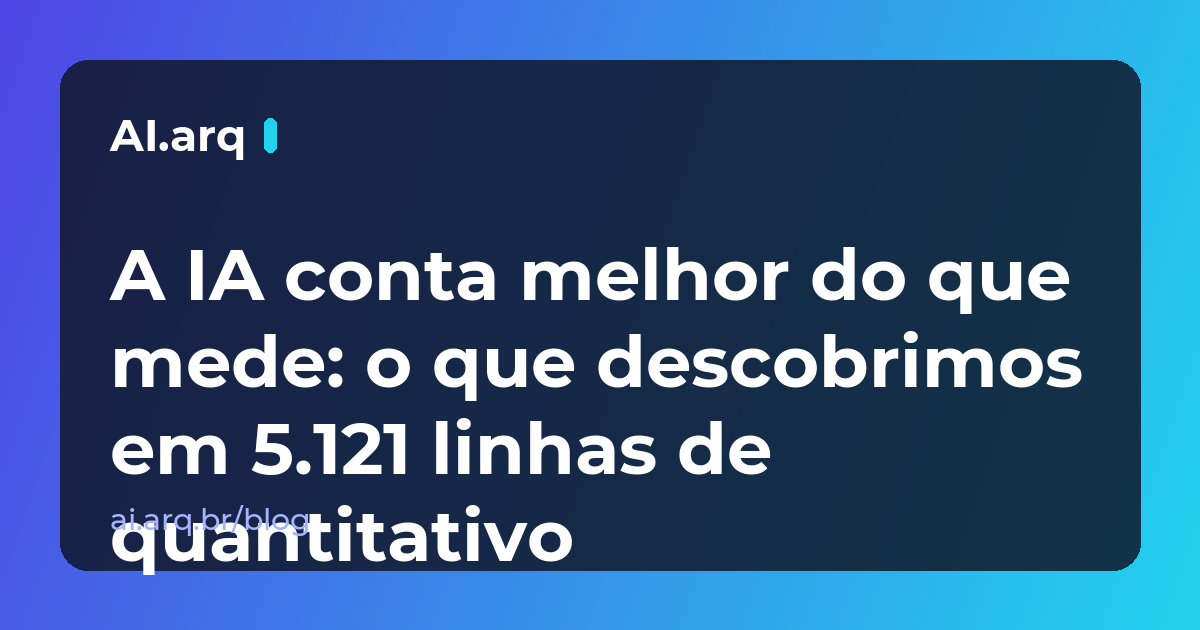
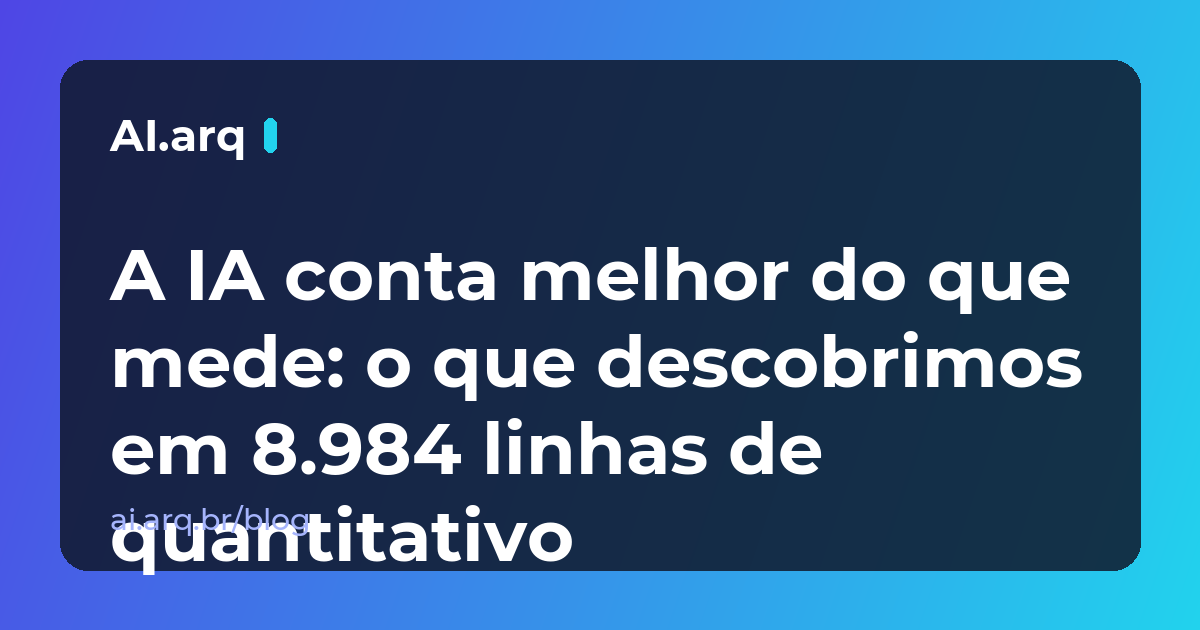
blog: o post de 18/10 ia ao ar com número de 03/09 — e com trial dentro da conta
O post "A IA conta melhor do que mede" publica em 18/10 e cita medição de
03/09. Base velha de 15 dias, num sistema em que a base quase dobrou nesse
intervalo. Remedido em 18/09 por três derivações independentes e três
contestações adversariais. As três acharam coisa.

O QUE ESTAVA ERRADO NO POST

1. Projeto de TRIAL contava como planta de cliente. Nove projetos chamados
   "teste", de contas que nunca nomearam um projeto de outro jeito — e dois
   deles são o mesmo arquivo subido com 35 segundos de diferença, que o filtro
   de filhote não pega porque nenhum tem parent_job_id. São 4,4% das linhas e
   12,3% dos SELOS: DWG pequeno e limpo mede bem e empurra a taxa pra cima.
   A ficha prometia "plantas de clientes em projetos concluídos".

2. A taxa agregada misturava duas populações que não se parecem. Metade das
   linhas de hoje vem de projeto só-PDF, e de PDF não sai medida por regra
   nossa. Publicar a média responde "quantos clientes mandam PDF", não "o que a
   IA mede num desenho". O recorte agora é explícito: projetos com DWG/DXF.

3. O múltiplo "dezesseis vezes" morreu e nenhum guarda pegou.

O QUE ISSO REVELOU, E QUE VALE MAIS QUE O POST

No recorte de CAD o motor NÃO se mexeu entre 03/09 e hoje: contagem 42,4% ->
42,8%, comprimento 22,6% -> 22,3%, área 3,2% -> 2,7%. A queda da base inteira
(32,4% -> 24,9%) é composição, não desempenho. Eu ia publicar uma regressão que
os dados não sustentam.

E EU ERREI FEIO NO MEIO DO CAMINHO
[…]

Changed region(s): [[0.185, 0.6635, 0.7092, 0.754]]

diff --git a/blog/posts/ia-conta-melhor-do-que-mede-planta.html b/blog/posts/ia-conta-melhor-do-que-mede-planta.html
@@ -7,8 +7,8 @@
 <link rel="preconnect" href="https://fonts.googleapis.com">
 <link rel="preconnect" href="https://fonts.gstatic.com" crossorigin>
 
-<title>A IA conta melhor do que mede: o que descobrimos em 5.121 linhas de quantitativo</title>
-<meta name="description" content="Levantamos 5.121 linhas geradas por IA a partir de plantas reais e separamos por unidade. Contagem sai certificada em 32,4% dos casos; área, em 2%. Por que essa diferença existe e o que o seu desenho precisa ter.">
+<title>A IA conta melhor do que mede: o que descobrimos em 8.984 linhas de quantitativo</title>
+<meta name="description" content="Levantamos 8.984 linhas geradas por IA a partir de plantas reais e separamos por unidade. Em projeto com CAD, contagem sai certificada em 41,7% dos casos; área, em 2,1%. Por que essa diferença existe e o que o seu desenho precisa ter.">
 <meta name="keywords" content="ia le planta, ia mede planta, quantitativo por ia confiavel, ia quantitativo obra, extrair quantitativo do cad, ia arquitetura limites, quantitativo automatico precisao">
 <meta name="author" content="AI.arq">
 
@@ -19,8 +19,8 @@
 <!-- Open Graph -->
 <meta property="og:type" content="article">
 <meta property="og:url" content="https://ai.arq.br/blog/posts/ia-conta-melhor-do-que-mede-planta.html">
-<meta property="og:title" content="A IA conta melhor do que mede: o que descobrimos em 5.121 linhas de quantitativo">
-<meta property="og:description" content="Levantamos 5.121 linhas geradas por IA a partir de plantas reais e separamos por unidade. Contagem sai certificada em 32,4% dos casos; área, em 2%. Por que essa diferença existe e o que o seu desenho precisa ter.">
+<meta property="og:title" content="A IA conta melhor do que mede: o que descobrimos em 8.984 linhas de quantitativo">
+<meta property="og:description" content="Levantamos 8.984 linhas geradas por IA a partir de plantas reais e separamos por unidade. Em projeto com CAD, contagem sai certificada em 41,7% dos casos; área, em 2,1%. Por que essa diferença existe e o que o seu desenho precisa ter.">
 <meta property="og:image" content="https://ai.arq.br/blog/og/ia-conta-melhor-do-que-mede-planta.png">
 <meta property="og:image:width" content="1200">
 <meta property="og:image:height" content="630">
@@ -32,8 +32,8 @@
 
 <!-- Twitter -->
 <meta name="twitter:card" content="summary_large_image">
-<meta name="twitter:title" content="A IA conta melhor do que mede: o que descobrimos em 5.121 linhas de quantitativo">
-<meta name="twitter:description" content="Levantamos 5.121 linhas geradas por IA a partir de plantas reais e separamos por unidade. Contagem sai certificada em 32,4% dos casos; área, em 2%. Por que essa diferença existe e o que o seu desenho precisa ter.">
+<meta name="twitter:title" content="A IA conta melhor do que mede: o que descobrimos em 8.984 linhas de quantitativo">
+<meta name="twitter:description" content="Levantamos 8.984 linhas geradas por IA a partir de plantas reais e separamos por unidade. Em projeto com CAD, contagem sai certificada em 41,7% dos casos; área, em 2,1%. Por que essa diferença existe e o que o seu desenho precisa ter.">
 <meta name="twitter:image" content="https://ai.arq.br/blog/og/ia-conta-melhor-do-que-mede-planta.png">
 
 <!-- Data agendada (lida por JS pra esconder antes da hora) -->
@@ -69,8 +69,8 @@
 {
   "@context": "https://schema.org",
   "@type": "Article",
-  "headline": "A IA conta melhor do que mede: o que descobrimos em 5.121 linhas de quantitativo",
-  "description": "Levantamos 5.121 linhas geradas por IA a partir de plantas reais e separamos por unidade. Contagem sai certificada em 32,4% dos casos; área, em 2%. Por que essa diferença existe e o que o seu desenho precisa ter.",
+  "headline": "A IA conta melhor do que mede: o que descobrimos em 8.984 linhas de quantitativo",
+  "description": "Levantamos 8.984 linhas geradas por IA a partir de plantas reais e separamos por unidade. Em projeto com CAD, contagem sai certificada em 41,7% dos casos; área, em 2,1%. Por que essa diferença existe e o que o seu desenho precisa ter.",
   "datePublished": "2026-10-18T10:00:00-03:00",
   "dateModified": "2026-10-18T10:00:00-03:00",
   "author": {
@@ -115,7 +115,7 @@
     {
       "@type": "ListItem",
       "position": 3,
-      "name": "A IA conta melhor do que mede: o que descobrimos em 5.121 linhas de quantitativo",
+      "name": "A IA conta melhor do que mede: o que descobrimos em 8.984 linhas de quantitativo",
       "item": "https://ai.arq.br/blog/posts/ia-conta-melhor-do-que-mede-planta.html"
     }
   ]
@@ -172,22 +172,22 @@
   <span class="inline-block bg-indigo-100 text-indigo-700 text-xs font-semibold uppercase tracking-wide px-3 py-1 rounded-full mb-4">Quantitativos</span>
 
   <!-- Título -->
-  <h1 class="text-3xl md:text-4xl font-bold text-gray-900 leading-tight mb-4">A IA conta melhor do que mede: o que descobrimos em 5.121 linhas de quantitativo</h1>
+  <h1 class="text-3xl md:text-4xl font-bold text-gray-900 leading-tight mb-4">A IA conta melhor do que mede: o que descobrimos em 8.984 linhas de quantitativo</h1>
 
   <!-- Meta -->
   <div class="flex items-center gap-4 text-sm text-gray-500 mb-10 pb-6 border-b">
     <span>📅 18/10/2026</span>
     <span>·</span>
-    <span>⏱ 3 min de leitura</span>
+    <span>⏱ 4 min de leitura</span>
   </div>
 
   
   <!-- Intro destacada -->
-  <p class="text-xl text-gray-700 leading-relaxed mb-8 italic">A pergunta que mais chega aqui é alguma versão de “dá pra confiar?”. Resposta honesta: depende do que você está pedindo pra IA fazer. Contar e medir são tarefas diferentes, e a distância entre as duas é maior do que a gente imaginava antes de olhar os próprios dados. Levantamos 5.121 linhas de quantitativo geradas a partir de plantas reais de clientes e separamos por unidade. O resultado está abaixo, incluindo a parte que não nos favorece.</p>
+  <p class="text-xl text-gray-700 leading-relaxed mb-8 italic">A pergunta que mais chega aqui é alguma versão de “dá pra confiar?”. Resposta honesta: depende do que você está pedindo pra IA fazer. Contar e medir são tarefas diferentes, e a distância entre as duas é maior do que a gente imaginava antes de olhar os próprios dados. Levantamos 8.984 linhas de quantitativo geradas a partir de plantas reais de clientes e separamos por unidade. O resultado está abaixo, incluindo a parte que não nos favorece.</p>
 
   <!-- Corpo -->
   <div class="prose-aiarq">
-    <h2>O número: 32,4% contra 2,0%</h2><p>Separando as linhas por família de unidade e olhando quantas saem seladas como MEDIDO do CAD (a nossa marca de que o número veio da geometria do desenho, não de estimativa):</p><ul><li>Contagem (un, peça) — 32,4% seladas como medidas: 901 de 2.779 linhas</li><li>Comprimento (m, ml) — 16,8%: 139 de 828 linhas</li><li>Área (m², m³) — 2,0%: 31 de 1.514 linhas</li></ul><p>A IA sela dezesseis vezes mais contagem do que área. Não é uma diferença de ajuste fino: é uma diferença de natureza da tarefa.</p><p>Um aviso de leitura, porque a confusão é fácil e vale 20 pontos percentuais: “linha com número” e “linha certificada como medida” são coisas diferentes. Área tem número em 47,9% das linhas, mas selo de medida em 2,0%. O resto vem como estimativa marcada pra revisar.</p><h2>Por que contar é mais fácil do que medir</h2><p>Contar é reconhecer um objeto repetido. Uma luminária, uma porta, um vaso sanitário são blocos inseridos no CAD: existem como entidade, têm nome, e contá-los é somar ocorrências. O desenho já traz a resposta.</p><p>Medir área é outra coisa. Uma sala não é um objeto no arquivo — é o vazio cercado por linhas que representam paredes. Pra virar metro quadrado, alguém precisa fechar aquele contorno, saber a escala e confirmar a unidade do desenho. Quando o projeto traz quadro de áreas, cota ou hachura identificada, o número aparece. Quando não traz, ele não existe em lugar nenhum do arquivo — e nenhuma IA tira do nada o que o desenho não tem.</p><p>Comprimento fica no meio: a linha existe, mas frequentemente representa as duas faces de uma parede, ou repete o mesmo trecho em pranchas diferentes. Por isso 16,8%, e não 80%.</p><h2>A linha em branco não é um erro — é a pergunta honesta</h2><p>Nas nossas planilhas, 54,8% das linhas de medida saem em branco: 1.283 de 2.342. É bastante, e a gente publica esse número de propósito.</p><p>Uma linha em branco quer dizer “o desenho não me deu isso”. A alternativa seria preencher com uma estimativa plausível — e é aí que quantitativo automático vira armadilha, porque um número inventado com cara de medido não é conferido por ninguém. Prefere-se o branco, que é uma pergunta, ao número bonito, que é uma afirmação falsa.</p><p>O custo disso é real: você preenche na mão o que ficou em branco. O ganho é que o que está preenchido e selado, você pode usar sem reconferir.</p><h2>O que o seu desenho precisa ter pra a IA medir</h2><p>Pela nossa medição, quatro coisas mudam o resultado mais do que qualquer ajuste de IA:</p><ol><li>Formato vetorial. DXF e DWG carregam geometria; PDF carrega imagem de geometria. Em PDF, quase tudo vira estimativa.</li><li>Unidade declarada no arquivo. Desenho sem unidade definida gera erro de escala — e erro de escala em área é erro ao quadrado.</li><li>Quadro de áreas ou cota. É a fonte que a IA lê pra confirmar o que mediu. Sem ele, sobra o contorno, que nem sempre fecha.</li><li>Pé-direito. Sem a altura, nada que dependa dela fecha: pintura de parede, volume, revestimento vertical. Ele quase nunca está no arquivo, e é informado em um campo.</li></ol><p>Nenhum desses itens é sobre a IA. Todos são sobre o desenho.</p><h2>O que fazer com a planilha que volta com branco</h2><p>Três movimentos, do mais barato pro mais caro:</p><ul><li>Informar a área total ou o pé-direito. Um número seu completa as linhas que dependem dele, e elas saem marcadas como informadas por você — não como medidas.</li><li>Reenviar em DXF, se você mandou PDF. É o que mais muda o resultado.</li><li>Preencher na mão o que sobrou. É trabalho, mas sobre uma base que já contou o que dava pra contar.</li></ul><p>O que a IA resolve bem hoje é o levantamento repetitivo: contar peça, listar esquadria, organizar por disciplina, cruzar com referência SINAPI. O julgamento técnico — o que entra, o que vira composição, o que o desenho não diz — continua sendo do profissional. Não por modéstia: porque é o que os dados mostram.</p>
+    <h2>O número: 41,7% contra 2,1%</h2><p>Antes do número, um corte que muda tudo. Das 8.984 linhas, 4.535 vieram de projeto enviado só em PDF — e de PDF a gente não sela medida, por regra nossa. Somar essas linhas ao resto responderia “quantos clientes mandam PDF”, não “o que a IA consegue medir num desenho”. Então a conta abaixo é sobre as 4.449 linhas que vieram de projeto com DWG ou DXF.</p><p>Separando essas linhas por família de unidade e olhando quantas saem seladas como MEDIDO do CAD (a nossa marca de que o número veio da geometria do desenho, não de estimativa):</p><ul><li>Contagem (un) — 41,7% seladas como medidas: 1.055 de 2.533 linhas</li><li>Comprimento (m, ml) — 20,6%: 166 de 804 linhas</li><li>Área (m², m³) — 2,1%: 23 de 1.112 linhas</li></ul><p>A IA sela vinte vezes mais contagem do que área. Não é uma diferença de ajuste fino: é uma diferença de natureza da tarefa.</p><p>Por projeto o contraste fica mais duro do que a média deixa ver. Entre os projetos que têm linha de área, 68 de 79 não têm nenhuma medida — 86,1%, ou seja, na grande maioria dos projetos a área sai inteiramente como estimativa. Em contagem, os que não medem nada são 24 de 88, 27,3%.</p><p>Um aviso de leitura, porque a confusão é fácil e vale quase quarenta pontos percentuais: “linha com número” e “linha certificada como medida” são coisas diferentes. Área traz número em 448 de 1.112 linhas, 40,3% — e selo de medida em 2,1%. O resto vem como estimativa marcada pra revisar.</p><h2>Por que contar é mais fácil do que medir</h2><p>Contar é reconhecer um objeto repetido. Uma luminária, uma porta, um vaso sanitário são blocos inseridos no CAD: existem como entidade, têm nome, e contá-los é somar ocorrências. O desenho já traz a resposta.</p><p>Medir área é outra coisa. Uma sala não é um objeto no arquivo — é o vazio cercado por linhas que representam paredes. Pra virar metro quadrado, alguém precisa fechar aquele contorno, saber a escala e confirmar a unidade do desenho. Quando o projeto traz quadro de áreas, cota ou hachura identificada, o número aparece. Quando não traz, ele não existe em lugar nenhum do arquivo — e nenhuma IA tira do nada o que o desenho não tem.</p><p>Comprimento fica no meio: a linha existe, mas frequentemente representa as duas faces de uma parede, ou repete o mesmo trecho em pranchas diferentes. Por isso 20,6%, e não 80%.</p><h2>A linha em branco não é um erro — é a pergunta honesta</h2><p>Nas planilhas de projeto com CAD, 60,2% das linhas de medida saem em branco: 1.154 de 1.916. É bastante, e a gente publica esse número de propósito.</p><p>Uma linha em branco quer dizer “o desenho não me deu isso”. Em 109 de 1.154 — 9,4% do branco — ela quer dizer outra coisa, e vale contar: ali existia um número, e nós o tiramos. Eram quantidades que tinham atravessado uma troca de unidade (o comprimento de um cabo virando contagem de peças, por exemplo) e que, por isso, já não significavam o que diziam. Entre o branco e o número que não se sustenta, fica o branco.</p><p>A alternativa seria preencher com uma estimativa plausível — e é aí que quantitativo automático vira armadilha, porque um número inventado com cara de medido não é conferido por ninguém. Prefere-se o branco, que é uma pergunta, ao número bonito, que é uma afirmação falsa.</p><p>O custo disso é real: você preenche na mão o que ficou em branco. O ganho é que o que está preenchido e selado, você pode usar sem reconferir.</p><h2>O que o seu desenho precisa ter pra a IA medir</h2><p>Pela nossa medição, quatro coisas mudam o resultado mais do que qualquer ajuste de IA:</p><ol><li>Formato vetorial. DXF e DWG carregam geometria; PDF carrega imagem de geometria. É a diferença mais brutal da tabela toda: das 4.535 linhas que vieram de projeto só em PDF, duas saíram seladas como medidas — e as duas são de maio de 2026, anteriores à regra que temos hoje. Depois dela, nenhuma.</li><li>Unidade declarada no arquivo. Desenho sem unidade definida gera erro de escala — e erro de escala em área é erro ao quadrado.</li><li>Quadro de áreas ou cota. É a fonte que a IA lê pra confirmar o que mediu. Sem ele, sobra o contorno, que nem sempre fecha.</li><li>Pé-direito. Sem a altura, nada que dependa dela fecha: pintura de parede, volume, revestimento vertical. Ele quase nunca está no arquivo, e é informado em um campo.</li></ol><p>Nenhum desses itens é sobre a IA. Todos são sobre o desenho.</p><h2>O que fazer com a planilha que volta com branco</h2><p>Três movimentos, do mais barato pro mais caro:</p><ul><li>Informar a área total ou o pé-direito. Um número seu completa as linhas que dependem dele, e elas saem marcadas como informadas por você — não como medidas.</li><li>Reenviar em DXF, se você mandou PDF. É o que mais muda o resultado.</li><li>Preencher na mão o que sobrou. É trabalho, mas sobre uma base que já contou o que dava pra contar.</li></ul><p>O que a IA resolve bem hoje é o levantamento repetitivo: contar peça, listar esquadria, organizar por disciplina, cruzar com referência SINAPI. O julgamento técnico — o que entra, o que vira composição, o que o desenho não diz — continua sendo do profissional. Não por modéstia: porque é o que os dados mostram.</p>
   </div>
 
   <!-- Compartilhar (28/08/2026) -->
@@ -240,7 +240,7 @@
         <svg class="w-4 h-4" fill="none" stroke="currentColor" viewBox="0 0 24 24"><path stroke-linecap="round" stroke-linejoin="round" stroke-width="2" d="M12 6.253v13m0-13C10.832 5.477 9.246 5 7.5 5S4.168 5.477 3 6.253v13C4.168 18.477 5.754 18 7.5 18s3.332.477 4.5 1.253m0-13C13.168 5.477 14.754 5 16.5 5c1.747 0 3.332.477 4.5 1.253v13C19.832 18.477 18.247 18 16.5 18c-1.746 0-3.332.477-4.5 1.253"/></svg>
         Fontes &amp; Referências
       </h3>
-      <div class="mb-4"><div class="text-xs font-semibold uppercase tracking-wide text-gray-500 mb-2">Normas ABNT</div><ul class="space-y-1.5 text-sm text-gray-700"><li><strong>ABNT NBR 12721:2006 — Avaliação de custos de construção para incorporação imobiliária</strong> &mdash; <span class="text-gray-600">Define como as áreas de um projeto são apuradas e apresentadas em quadro — a fonte que um leitor automático usa pra confirmar área.</span></li></ul></div><div><div class="text-xs font-semibold uppercase tracking-wide text-gray-500 mb-2">Web</div><ul class="space-y-1.5 text-sm text-gray-700"><li><a href="https://www.caixa.gov.br/poder-publico/modernizacao-gestao/sinapi/Paginas/default.aspx" target="_blank" rel="noopener nofollow" class="text-indigo-600 hover:text-indigo-800">SINAPI — Sistema Nacional de Pesquisa de Custos e Índices (Caixa Econômica Federal)</a> &mdash; <span class="text-gray-600">Referência das unidades de medida por serviço, usada pra checar se a unidade do item bate com a composição correspondente.</span></li></ul></div><div class="mt-4"><div class="text-xs font-semibold uppercase tracking-wide text-gray-500 mb-2">Dados do AI.arq</div><ul class="space-y-1.5 text-sm text-gray-700"><li><strong>Medição própria — AI.arq, base de produção (03/09/2026)</strong> &mdash; <span class="text-gray-600">5.121 linhas de quantitativo geradas a partir de plantas de clientes em projetos concluídos, agrupadas por família de unidade. Contagem (un/pç): 901 de 2.779 seladas como medidas (32,4%). Comprimento (m/ml): 139 de 828 (16,8%). Área (m²/m³): 31 de 1.514 (2,0%). Linhas de medida em branco: 1.283 de 2.342 (54,8%). Projetos de avaliação e contas internas ficam fora da contagem.</span></li></ul></div>
+      <div class="mb-4"><div class="text-xs font-semibold uppercase tracking-wide text-gray-500 mb-2">Normas ABNT</div><ul class="space-y-1.5 text-sm text-gray-700"><li><strong>ABNT NBR 12721:2006 — Avaliação de custos de construção para incorporação imobiliária</strong> &mdash; <span class="text-gray-600">Define como as áreas de um projeto são apuradas e apresentadas em quadro — a fonte que um leitor automático usa pra confirmar área.</span></li></ul></div><div><div class="text-xs font-semibold uppercase tracking-wide text-gray-500 mb-2">Web</div><ul class="space-y-1.5 text-sm text-gray-700"><li><a href="https://www.caixa.gov.br/poder-publico/modernizacao-gestao/sinapi/Paginas/default.aspx" target="_blank" rel="noopener nofollow" class="text-indigo-600 hover:text-indigo-800">SINAPI — Sistema Nacional de Pesquisa de Custos e Índices (Caixa Econômica Federal)</a> &mdash; <span class="text-gray-600">Referência das unidades de medida por serviço, usada pra checar se a unidade do item bate com a composição correspondente.</span></li></ul></div><div class="mt-4"><div class="text-xs font-semibold uppercase tracking-wide text-gray-500 mb-2">Dados do AI.arq</div><ul class="space-y-1.5 text-sm text-gray-700"><li><strong>Medição própria — AI.arq, base de produção (18/09/2026)</strong> &mdash; <span class="text-gray-600">Medido em 18/09/2026 sobre project_items de projetos de clientes concluídos, excluindo projetos de avaliação, contas internas e 9 projetos de trial (nomeados “teste” por contas que nunca nomearam um projeto de outro jeito). 8.984 linhas nas famílias contagem (un), comprimento (m, ml) e área (m², m³); as demais unidades ficam fora. “Selada como medida” = confidence confirmado; “em branco” = quantidade zero. De 148 projetos, o recorte publicado são os 95 com ao menos um arquivo DWG ou DXF, 4.449 linhas: contagem 1.055 de 2.533 (41,7%); comprimento 166 de 804 (20,6%); área 23 de 1.112 (2,1%); área com número 448 de 1.112 (40,3%); linhas de medida em branco 1.154 de 1.916 (60,2%), das quais 109 de 1.154 (9,4%) foram zeradas por nós em 14/09/2026 por a quantidade ter atravessado uma troca de unidade. Por projeto, sem nenhuma medida na família: área 68 de 79 (86,1%), contagem 24 de 88 (27,3%). Os 53 projetos só-PDF somam 4.535 linhas com apenas duas seladas, ambas do mesmo job de maio de 2026, anterior à regra atual. Nenhuma linha selada foi editada por revisor humano; 40 das 448 linhas de área com número tiveram a quantidade digitada por um revisor, e não medida pela IA.</span></li></ul></div>
       <p class="mt-4 text-xs text-gray-400 italic">
         Última atualização: 18/10/2026. Normas e documentos citados podem ter sido revisados após esta data — sempre consulte a versão vigente.
       </p>

diff --git a/blog/index.html b/blog/index.html
@@ -283,12 +283,12 @@
         <article data-future="true" style="display:none" class="post-card group relative rounded-2xl border bg-white p-6 shadow-sm hover:shadow-lg focus-within:ring-2 focus-within:ring-indigo-500 transition" data-publish-date="2026-10-18">
           <span class="inline-block bg-indigo-100 text-indigo-700 text-xs font-semibold uppercase tracking-wide px-2.5 py-1 rounded-full mb-3">Quantitativos</span>
           <h2 class="text-xl font-bold text-gray-900 mb-2 group-hover:text-indigo-600 transition leading-tight">
-            <a href="/blog/posts/ia-conta-melhor-do-que-mede-planta.html" class="no-underline text-inherit after:absolute after:inset-0 after:content-['']">A IA conta melhor do que mede: o que descobrimos em 5.121 linhas de quantitativo</a>
+            <a href="/blog/posts/ia-conta-melhor-do-que-mede-planta.html" class="no-underline text-inherit after:absolute after:inset-0 after:content-['']">A IA conta melhor do que mede: o que descobrimos em 8.984 linhas de quantitativo</a>
           </h2>
-          <p class="text-sm text-gray-600 leading-relaxed mb-4">Levantamos 5.121 linhas geradas por IA a partir de plantas reais e separamos por unidade. Contagem sai certificada em 32,4% dos casos; área, em 2%. Por que essa diferença existe e o que o seu desenho precisa ter.</p>
+          <p class="text-sm text-gray-600 leading-relaxed mb-4">Levantamos 8.984 linhas geradas por IA a partir de plantas reais e separamos por unidade. Em projeto com CAD, contagem sai certificada em 41,7% dos casos; área, em 2,1%. Por que essa diferença existe e o que o seu desenho precisa ter.</p>
           <div class="flex items-center justify-between text-xs text-gray-500">
             <span>📅 18/10/2026</span>
-            <span>⏱ 3 min</span>
+            <span>⏱ 4 min</span>
           </div>
         </article>
         

diff --git a/backend/tests/test_blog_numero_publicado_fecha_a_conta.py b/backend/tests/test_blog_numero_publicado_fecha_a_conta.py
@@ -1,0 +1,221 @@
+# -*- coding: utf-8 -*-
+"""Número que o blog publica tem que fechar a conta — e fechar nos DOIS lugares.
+
+🩸 18/09/2026. O post `ia-conta-melhor-do-que-mede-planta` publica os mesmos
+seis números DUAS vezes: no corpo ("32,4% seladas como medidas: 901 de 2.779
+linhas") e na ficha de fonte do rodapé ("Contagem (un/pç): 901 de 2.779 seladas
+como medidas (32,4%)"). Quando a medição envelhece e alguém atualiza à mão, o
+erro provável não é errar a conta — é atualizar UM dos dois lugares e não o
+outro. O post sobe, o site fica verde, e o rodapé desmente o texto.
+
+🔑 Nenhum guarda do blog olhava a ARITMÉTICA do que a gente afirma em público,
+e a regra dura da casa é "fonte em toda afirmação". Fonte que não bate com a
+afirmação é pior que fonte nenhuma.
+
+O que estes guardas provam:
+  1. todo percentual grudado num par "N de M" bate com N/M;
+  2. todo par citado numa ficha de fonte interna também aparece no corpo — o que
+     reprova nos DOIS sentidos do esquecimento (mexeu no corpo e não na ficha: o
+     par velho da ficha some do corpo; mexeu na ficha e não no corpo: idem);
+  3. os números sobrevivem à GERAÇÃO — o HTML publicado carrega os mesmos pares.
+
+🪤 "Grudado" é a parte delicada. Uma janela larga de caracteres reprova texto
+inocente: `dwg-ou-pdf-...` diz "falha em 6 de 10 envios; o PDF mede 4,7%", que
+são dois fatos diferentes na mesma frase. Por isso o percentual só conta como
+ligado ao par quando o que separa os dois não tem outro dígito, nem ';', nem
+fim de frase. Medido no acervo antes de escrever: janela larga dava 1
+falso-positivo em 9 pares; a regra apertada dá 0 em 8.
+
+🚨 O QUE ESTE GUARDA **NÃO** ALCANÇA — dito aqui pra ninguém confundir verde
+com cobertura:
+
+  · **Múltiplo escrito por extenso.** "A IA sela vinte vezes mais contagem do
+    que área" é uma afirmação aritmética sobre dois percentuais, e nada aqui a
+    confere. A revisão adversarial de 18/09 achou exatamente isso: a versão
+    anterior do post dizia "dezesseis vezes" com números que davam 22,8×, e os
+    guardas passaram verdes. Conferir exigiria adivinhar QUAIS dois percentuais
+    o múltiplo compara — guarda que adivinha vira ruído, então este não tenta.
+    **Ao mexer num percentual, releia o múltiplo à mão.**
+  · **Se o número é VERDADEIRO.** Aqui só se prova coerência interna: a conta
+    fecha e os dois lugares concordam. Se o número bate com o banco, só medindo
+    — e a bancada não tem banco. Isso é trabalho de quem escreve, não do CI.
+  · **Se a definição é a mesma nas duas pontas.** Comparar 54,8% de agosto com
+    69,2% de setembro pode ser maçã com laranja se uma correção retroativa
+    mudou a régua no meio — foi o que aconteceu em 14/09, e nenhum teste pega.
+"""
+import io
+import json
+import os
+import re
+
+import pytest
+
+RAIZ = os.path.dirname(os.path.dirname(os.path.dirname(os.path.abspath(__file__))))
+BLOG = os.path.join(RAIZ, "blog")
+
+RE_PAR = re.compile(r"(\d[\d.]*)\s+de\s+(\d[\d.]*)")
+RE_PCT = re.compile(r"(\d+(?:,\d+)?)\s*%")
+
+MAX_ENTRE = 40          # caracteres entre o par e o percentual
+TOLERANCIA_PP = 0.15    # arredondamento de uma casa decimal
+
+
+def _posts():
+    return json.load(io.open(os.path.join(BLOG, "posts.json"), encoding="utf-8"))["posts"]
+
+
+def _n(s):
+    """1.283 em pt-BR é mil duzentos e oitenta e três, não 1,283."""
+    return int(s.replace(".", ""))
+
+
+def _pct(s):
+    return float(s.replace(",", "."))
+
+
+def _separador_limpo(entre):
+    """O que separa o par do percentual não pode conter outro número nem quebra
+    de frase — senão são duas estatísticas vizinhas, e não uma afirmação só."""
+    if len(entre) > MAX_ENTRE:
+        return False
+    return not (re.search(r"\d", entre) or ";" in entre or "." in entre or "\n" in entre)
+
+
+def percentuais_ligados(texto, casamento):
+    """Percentuais estruturalmente amarrados a este par — antes ou depois."""
+    ligados = []
+    for mp in RE_PCT.finditer(texto):
+        if mp.end() <= casamento.start():
+            if _separador_limpo(texto[mp.end():casamento.start()]):
+                ligados.append(_pct(mp.group(1)))
+        elif mp.start() >= casamento.end():
+            if _separador_limpo(texto[casamento.end():mp.start()]):
+                ligados.append(_pct(mp.group(1)))
+    return ligados
+
+
+def contas_do_texto(texto):
+    """Devolve (trecho, esperado, percentuais_ligados) de cada par com percentual."""
+    saida = []
+    for m in RE_PAR.finditer(texto):
+        parte, todo = _n(m.group(1)), _n(m.group(2))
+        if todo == 0:
+            continue
+        ligados = percentuais_ligados(texto, m)
+        if ligados:
+            saida.append((m.group(0), round(parte * 100.0 / todo, 1), ligados))
+    return saida
+
+
+def corpo_do_post(p):
+    partes = [p.get("title", ""), p.get("description", ""), p.get("intro", "")]
+    for s in p.get("sections", []):
+        for chave, valor in s.items():
+            if isinstance(valor, str):
+                partes.append(valor)
+            elif isinstance(valor, list):
+                partes.append(" ".join(str(x) for x in valor))
+    return "\n".join(partes)
+
+
+def fichas_internas(p):
+    return [(s.get("title", "") + " " + s.get("description", ""))
+            for s in p.get("sources", []) if s.get("type") == "internal"]
+
+
+def pares_de(texto):
+    return {(_n(a), _n(b)) for a, b in RE_PAR.findall(texto)}
+
+
+# ----------------------------------------------------------------- os guardas
+
+def test_o_percentual_publicado_fecha_com_o_proprio_par():
+    """901 de 2.779 é 32,4%. Se o texto disser outro número, o post mente com
+    a prova do lado."""
+    quebrados = []
+    for p in _posts():
+        for texto in [corpo_do_post(p)] + fichas_internas(p):
+            for trecho, esperado, ligados in contas_do_texto(texto):
+                if not any(abs(c - esperado) <= TOLERANCIA_PP for c in ligados):
+                    quebrados.append((p["slug"], trecho, esperado, ligados))
+    assert not quebrados, (
+        "percentual publicado que NÃO fecha com o par ao lado "
+        "(slug, par, o que a conta dá, o que o texto diz): %r" % quebrados)
+
+
+def test_a_ficha_de_fonte_nao_desmente_o_corpo():
+    """Ficha interna é a prova do que o corpo afirma. Todo par citado nela tem
+    que existir no corpo — é isto que pega o 'atualizei um lugar só'."""
+    orfaos = []
+    for p in _posts():
+        no_corpo = pares_de(corpo_do_post(p))
+        for ficha in fichas_internas(p):
+            for par in pares_de(ficha):
+                if par not in no_corpo:
+                    orfaos.append((p["slug"], "%d de %d" % par))
+    assert not orfaos, (
+        "ficha de fonte cita par que o corpo do post não afirma — um dos dois "
+        "ficou pra trás numa atualização: %r" % orfaos)
+
+
+def test_os_numeros_sobrevivem_a_geracao():
+    """🪤 O artefato é que vai pro ar. Par que existe no JSON e some do HTML
+    gerado é número que ninguém lê — a lição de test_blog_fontes, aplicada aqui."""
+    sumidos = []
+    for p in _posts():
+        caminho = os.path.join(BLOG, "posts", p["slug"] + ".html")
+        if not os.path.isfile(caminho):
+            continue
+        gerado = io.open(caminho, encoding="utf-8").read()
+        for ficha in fichas_internas(p):
+            for a, b in RE_PAR.findall(ficha):
+                if ("%s de %s" % (a, b)) not in gerado:
+                    sumidos.append((p["slug"], "%s de %s" % (a, b)))
+    assert not sumidos, (
+        "par de número que está no posts.json e NÃO está no HTML gerado — "
+        "rode `python blog/generate.py`: %r" % sumidos)
+
+
+# ------------------------------------------------- controles: provar que REPROVA
+
+def test_CONTROLE_conta_errada_e_pega():
+    """🧪 Guarda que nunca reprova não é guarda."""
+    mentira = "Contagem: 901 de 2.779 seladas como medidas (50,0%)."
+    contas = contas_do_texto(mentira)
+    assert contas, "o controle não achou par nenhum — o casador quebrou"
+    trecho, esperado, ligados = contas[0]
+    assert abs(esperado - 32.4) <= TOLERANCIA_PP
+    assert not any(abs(c - esperado) <= TOLERANCIA_PP for c in ligados), (
+        "a conta errada passou pelo guarda")
+
+
+def test_CONTROLE_conta_certa_passa():
+    """🧪 E o controle pelo avesso: o texto verdadeiro não pode reprovar."""
+    verdade = "Contagem: 901 de 2.779 seladas como medidas (32,4%)."
+    trecho, esperado, ligados = contas_do_texto(verdade)[0]
+    assert any(abs(c - esperado) <= TOLERANCIA_PP for c in ligados)
+
+
+def test_CONTROLE_duas_estatisticas_na_mesma_frase_NAO_sao_amarradas():
+    """🪤 O falso-positivo que existe de verdade no acervo: 'falha em 6 de 10
+    envios; o PDF mede 4,7%' são dois fatos. Se o guarda amarrar os dois, ele
+    reprova post correto e vira ruído — e guarda que vira ruído é desligado."""
+    frase = "o DWG falha em 6 de 10 envios; o PDF mede 4,7%"
+    assert contas_do_texto(frase) == [], (
+        "o guarda amarrou percentual de um fato ao par de outro")
+
+
+def test_CONTROLE_o_par_orfao_e_pego():
+    """🧪 O caso de 18/09: a ficha ficou com o número velho."""
+    corpo = "Contagem: 1.184 de 2.771 linhas."
+    ficha = "Contagem (un/pç): 901 de 2.779 seladas como medidas."
+    assert pares_de(ficha) - pares_de(corpo), (
+        "par velho na ficha não foi detectado como órfão do corpo")
+
+
+def test_CONTROLE_milhar_em_pt_br_nao_vira_decimal():
+    """🪤 '1.283' vale mil duzentos e oitenta e três. Ler como 1,283 erra por
+    mil — é o mesmo erro de 1000× que o cronograma financeiro quase cometeu."""
+    assert _n("1.283") == 1283
+    assert _n("2.779") == 2779
+    assert _pct("54,8") == pytest.approx(54.8)
